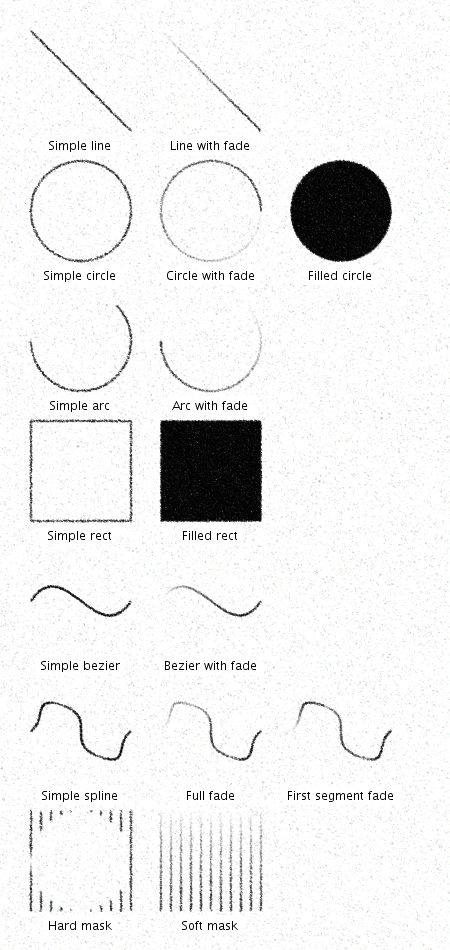
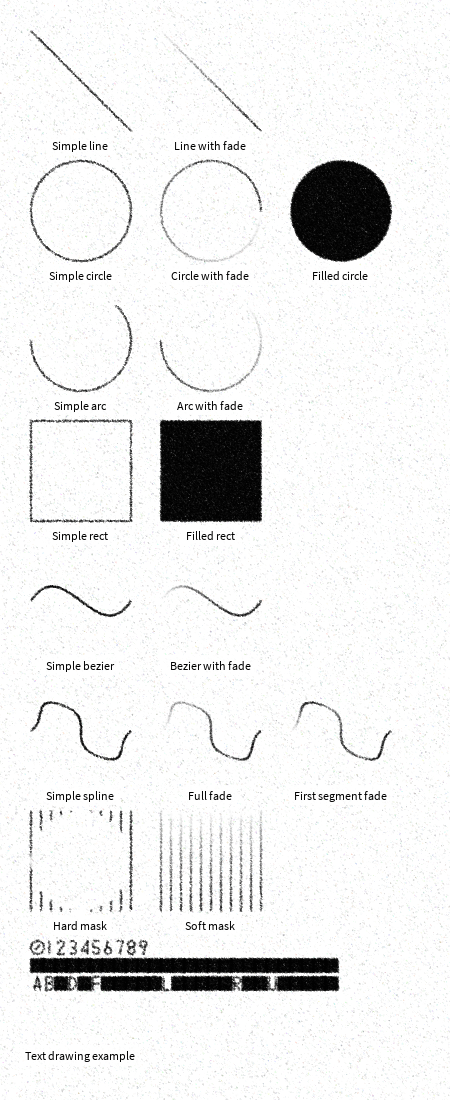
Add text function (only some chars supported for now)

diff --git a/src/paperandpencil/PaperAndPencil.java b/src/paperandpencil/PaperAndPencil.java
@@ -508,4 +508,119 @@ public class PaperAndPencil {
             currentSegment++;
         }
     }
+
+    /**
+     * Draws text at the specified position using the pencil effect.
+     * Alphabet is very limited at the moment and only supports 0-9 and some uppercase letters.
+     * 
+     * @param txt The text string to draw
+     * @param x x-coordinate of the text position
+     * @param y y-coordinate of the text position
+     */
+    public void text(String txt, float x, float y, float size) {
+        if (txt == null || txt.length() == 0) return;
+        float spacing = 2;      // Spacing between characters
+        float currentX = x;
+
+        for (int i = 0; i < txt.length(); i++) {
+            char c = txt.charAt(i);
+            currentX = x + i * (size * 0.75f + spacing);
+            if (c >= 'A' && c <= 'Z') {
+                // Uppercase letters
+                if (c == 'A') {
+                    line(currentX + size*0.5f, y, currentX + size*0.25f, y + size, false);
+                    line(currentX + size*0.5f, y, currentX + size*0.75f, y + size, false);
+                    line(currentX + size*0.25f, y + size*0.75f, currentX + size*0.75f, y + size*0.75f, false);
+                    continue;
+                } else if (c == 'B') {
+                    line(currentX + size*0.25f, y, currentX + size*0.25f, y + size, false);
+                    arc(currentX + size*0.5f, y + size*0.25f, size*0.5f, -PConstants.PI/2, PConstants.PI/2, false);
+                    arc(currentX + size*0.5f, y + size*0.75f, size*0.5f, -PConstants.PI/2, PConstants.PI/2, false);
+                    // horizontal lines to close the loops
+                    line(currentX + size*0.25f, y, currentX + size*0.5f, y, false);
+                    line(currentX + size*0.25f, y + size*0.5f, currentX + size*0.5f, y + size*0.5f, false);
+                    line(currentX + size*0.25f, y + size, currentX + size*0.5f, y + size, false);
+                    continue;
+                } else if (c == 'D') {
+                    line(currentX + size*0.25f, y, currentX + size*0.25f, y + size, false);
+                    arc(currentX + size/4, y + size/2, size, -PConstants.PI/2, PConstants.PI/2, false);
+                    continue;
+                } else if (c == 'F') {
+                    line(currentX + size*0.75f, y, currentX + size*0.25f, y, false);
+                    line(currentX + size*0.25f, y, currentX + size*0.25f, y + size, false);
+                    line(currentX + size*0.75f, y + size*0.5f, currentX + size*0.25f, y + size*0.5f, false);
+                    continue;
+                } else if (c == 'L') {
+                    line(currentX + size*0.25f, y, currentX + size*0.25f, y + size, false);
+                    line(currentX + size*0.25f, y + size, currentX + size*0.75f, y + size, false);
+                    continue;
+                } else if (c == 'R') {
+                    line(currentX + size*0.25f, y, currentX + size*0.25f, y + size, false);
+                    arc(currentX + size/2, y + size*0.25f, size/2, -PConstants.PI/2, PConstants.PI/2, false);
+                    line(currentX + size*0.25f, y + size*0.5f, currentX + size*0.75f, y + size, false);
+                    // horizontal lines to close the loop
+                    line(currentX + size*0.25f, y, currentX + size*0.5f, y, false);
+                    line(currentX + size*0.25f, y + size*0.5f, currentX + size*0.5f, y + size*0.5f, false);
+                    continue;
+                } else if (c == 'U') {
+                    line(currentX + size*0.25f, y, currentX + size*0.25f, y + size*0.75f, false);
+                    line(currentX + size*0.75f, y, currentX + size*0.75f, y + size*0.75f, false);
+                    arc(currentX + size/2, y + size*0.75f, size/2, 0, PConstants.PI, false);
+                    continue;
+                }
+                fillRect(currentX, y, size, size);
+            } else if (c >= 'a' && c <= 'z') {
+                // Lowercase letters
+                fillRect(currentX, y, size, size);
+            } else if (c >= '0' && c <= '9') {
+                // Digits
+                if (c == '0') {
+                    circle(currentX + size/2, y + size/2, size, false);
+                    // diagonal line to distinguish from 'O'
+                    line(currentX + size*0.3f, y + size*0.7f, currentX + size*0.7f, y + size*0.3f, false);
+                    continue;
+                } else if (c == '1') {
+                    line(currentX + size/2, y, currentX + size/2, y + size, false);
+                    continue;
+                } else if (c == '2') {
+                    arc(currentX + size/2, y + size/4, size/2, PConstants.PI, PConstants.PI * 2, false);
+                    line(currentX + size*0.75f, y + size/4, currentX + size*0.25f, y + size, false);
+                    line(currentX + size*0.25f, y + size, currentX + size*0.75f, y + size, false);
+                    continue;
+                } else if (c == '3') {
+                    arc(currentX + size/2, y + size/4, size/2, -3*PConstants.PI/4, PConstants.PI/2, false);
+                    arc(currentX + size/2, y + size*0.75f, size/2, -PConstants.PI/2, 3*PConstants.PI/4, false);
+                    continue;
+                } else if (c == '4') {
+                    line(currentX + size*0.75f, y, currentX + size*0.75f, y + size, false);
+                    line(currentX + size*0.25f, y + size*0.75f, currentX + size*0.75f, y + size*0.75f, false);
+                    line(currentX + size*0.75f, y, currentX + size*0.25f, y + size*0.75f, false);
+                    continue;
+                } else if (c == '5') {
+                    line(currentX + size*0.25f, y, currentX + size*0.75f, y, false);
+                    line(currentX + size*0.25f, y, currentX + size*0.25f, y + size*0.5f, false);
+                    line(currentX + size*0.25f, y + size*0.5f, currentX + size*0.5f, y + size*0.5f, false);
+                    arc(currentX + size/2, y + size*0.75f, size/2, -PConstants.PI/2, PConstants.PI, false);
+                    continue;
+                } else if (c == '6') {
+                    circle(currentX + size*0.5f, y + size*0.75f, size*0.5f, false);
+                    line(currentX + size*0.3f, y + size*0.7f, currentX + size*0.5f, y, false);
+                    continue;
+                } else if (c == '7') {
+                    line(currentX + size*0.25f, y, currentX + size*0.75f, y, false);
+                    line(currentX + size*0.75f, y, currentX + size*0.5f, y + size, false);
+                    continue;
+                } else if (c == '8') {
+                    circle(currentX + size*0.5f, y + size*0.25f, size*0.5f, false);
+                    circle(currentX + size*0.5f, y + size*0.75f, size*0.5f, false);
+                    continue;
+                } else if (c == '9') {
+                    circle(currentX + size*0.5f, y + size*0.25f, size*0.5f, false);
+                    line(currentX + size*0.7f, y + size*0.3f, currentX + size*0.5f, y + size, false);
+                    continue;
+                }
+                fillRect(currentX, y, size, size);
+            }
+        }
+    }
 }
